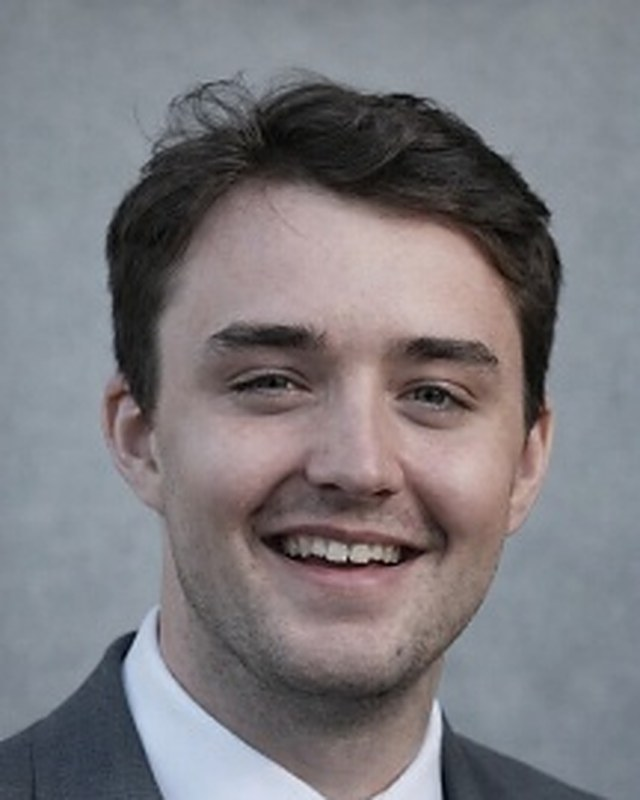
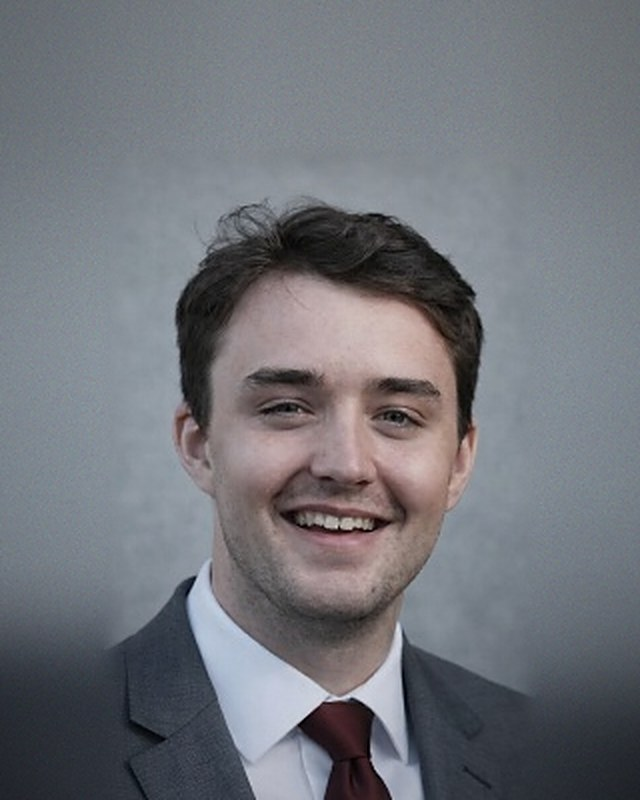
Widen Alex headshot framing, retitle as Digital Specialist

diff --git a/about.html b/about.html
@@ -107,7 +107,7 @@
       <article class="member reveal d1">
         <div class="member-photo"><img src="assets/img/alex-kelleher.jpg" alt="Portrait of Alex Kelleher" width="640" height="800" loading="lazy"></div>
         <div class="member-body">
-          <span class="member-role">Principal Advisor &amp; Digital Implementation</span>
+          <span class="member-role">Principal Advisor &amp; Digital Specialist</span>
           <h3>Alex Kelleher</h3>
           <p>Alex is a government-contracting software engineer and Virginia Tech graduate who specializes in web development, digital accessibility and online presence. He evaluates and, when engaged, builds or fully overhauls restaurant websites, and he can implement the full range of digital visibility and access solutions we offer.</p>
           <div class="member-tags"><span>Web development</span><span>Online presence</span><span>Accessibility</span><span>Systems</span></div>

diff --git a/index.html b/index.html
@@ -107,7 +107,7 @@
       </div>
       <div class="duo reveal d2">
         <figure><img src="assets/img/jesse-brouillette.jpg" alt="Jesse Brouillette" width="640" height="800" loading="lazy"><figcaption><strong>Jesse Brouillette</strong><span>Principal Advisor</span></figcaption></figure>
-        <figure><img src="assets/img/alex-kelleher.jpg" alt="Alex Kelleher" width="640" height="800" loading="lazy"><figcaption><strong>Alex Kelleher</strong><span>Principal Advisor &amp; Digital</span></figcaption></figure>
+        <figure><img src="assets/img/alex-kelleher.jpg" alt="Alex Kelleher" width="640" height="800" loading="lazy"><figcaption><strong>Alex Kelleher</strong><span>Principal Advisor &amp; Digital Specialist</span></figcaption></figure>
       </div>
     </div>
   </div>
